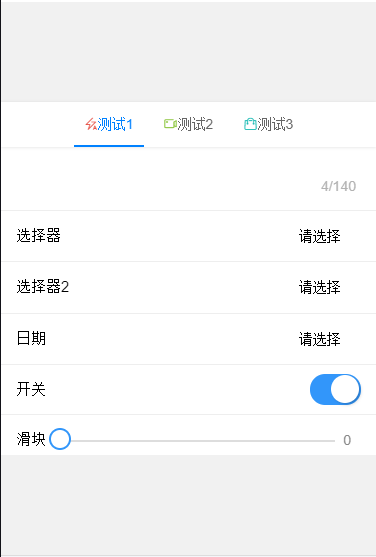
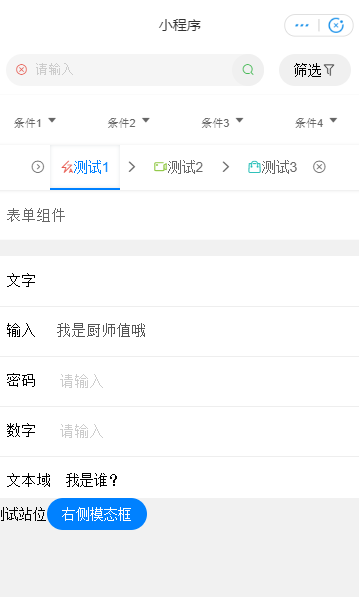
更新readme和照片

diff --git a/README.md b/README.md
@@ -4,6 +4,35 @@
 
 集成请求库[`wefech`](https://github.com/jonnyshao/wefetch)，集成样式库[`ColorUI`](https://github.com/weilanwl/ColorUI)，集成[`Font Awesome`](https://github.com/FortAwesome/Font-Awesome)
 
+开箱即用——从框架到组件方便后端程序工程师开发前端小程序应用。
+欢迎反馈。
+
+## 开发框架
+
+1. 支持`typescript`、`stylus`开发
+2. 集成`请求库wefetch`、`样式库colorUI`、`图标库fontAwesome`
+
+## 组件
+
+内置11种组件，方便后端程序工程师开发前端小程序应用。
+
+### 
+
+1. 可配置表单Form：配置后可生成整个表单。内部支持文本、文本域、日期、开关、滑块、选择器；
+2. 搜索条search-bar：内置选择器，搜索输入。简单配置即可使用。有尾部插槽。
+3. 切换面板tabs：内置滚动面板。简单配置即可使用。有面板插槽,有切换条插槽。
+4. 列表list：内置异普通列表、带小图列表、带大图列表。简单配置即可使用。有尾部插槽。
+5. 卡片列表cardlist：简单配置即可使用，支持多选。有尾部插槽。
+6. 模态框modal：上下弹出模态框，和左右抽屉。有插槽
+
+### 支持权限过滤组件
+
+7. 异步按钮asyncbutton：支持权限过滤。内置异步等待和确认面板。简单配置即可使用。
+8. 格子列表gridlist：支持权限过滤。简单配置即可使用。有插槽。
+9. 菜单列表menulist：支持权限过滤。简单配置即可使用，支持多选。有尾部插槽。
+10. 底部条tabbar：支持权限过滤。简单配置即可使用，有插槽。
+11. 条bar：简单配置即可使用，有插槽。
+
 ### 模板内组件
 
 ![](./photos/1.png)
